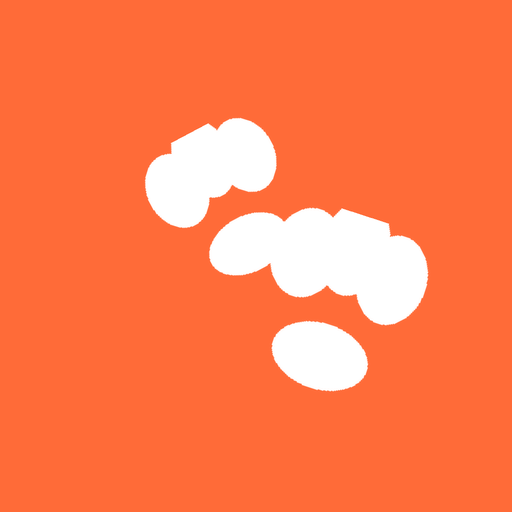
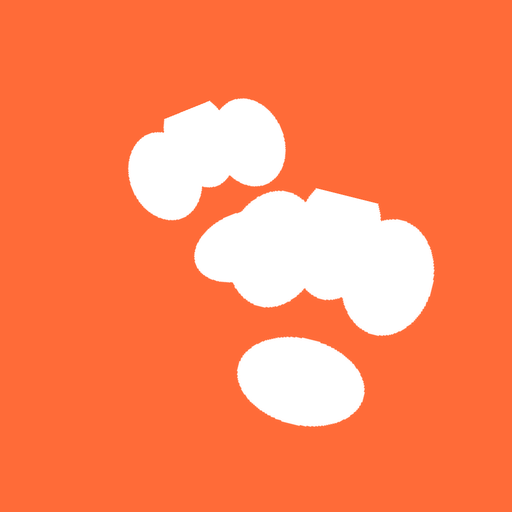
Tighten the paw pair: larger prints, closer trail, one small one large.

Changed region(s): [[0.25, 0.1875, 0.875, 0.8438]]

diff --git a/frontend/src/components/PetsyLogo.tsx b/frontend/src/components/PetsyLogo.tsx
@@ -70,11 +70,11 @@ export function PetsyMark({
   const discStyle = useAnimatedStyle(() => ({ transform: [{ scale: disc.value }] }));
   const aStyle = useAnimatedStyle(() => ({
     opacity: pawA.value,
-    transform: [{ translateY: (1 - pawA.value) * 8 }, { rotate: '-24deg' }],
+    transform: [{ translateY: (1 - pawA.value) * 6 }, { rotate: '-18deg' }],
   }));
   const bStyle = useAnimatedStyle(() => ({
     opacity: pawB.value,
-    transform: [{ translateY: (1 - pawB.value) * 8 }, { rotate: '16deg' }],
+    transform: [{ translateY: (1 - pawB.value) * 6 }, { rotate: '12deg' }],
   }));
 
   return (
@@ -93,11 +93,13 @@ export function PetsyMark({
         discStyle,
       ]}
     >
-      <Animated.View style={[{ position: 'absolute', left: s * 0.16, top: s * 0.16 }, aStyle]}>
-        <Paw size={s * 0.30} />
+      {/* small lead print */}
+      <Animated.View style={[{ position: 'absolute', left: s * 0.22, top: s * 0.18 }, aStyle]}>
+        <Paw size={s * 0.38} />
       </Animated.View>
-      <Animated.View style={[{ position: 'absolute', right: s * 0.14, bottom: s * 0.12 }, bStyle]}>
-        <Paw size={s * 0.36} />
+      {/* larger trail print, closer */}
+      <Animated.View style={[{ position: 'absolute', left: s * 0.34, top: s * 0.36 }, bStyle]}>
+        <Paw size={s * 0.48} />
       </Animated.View>
     </Animated.View>
   );
